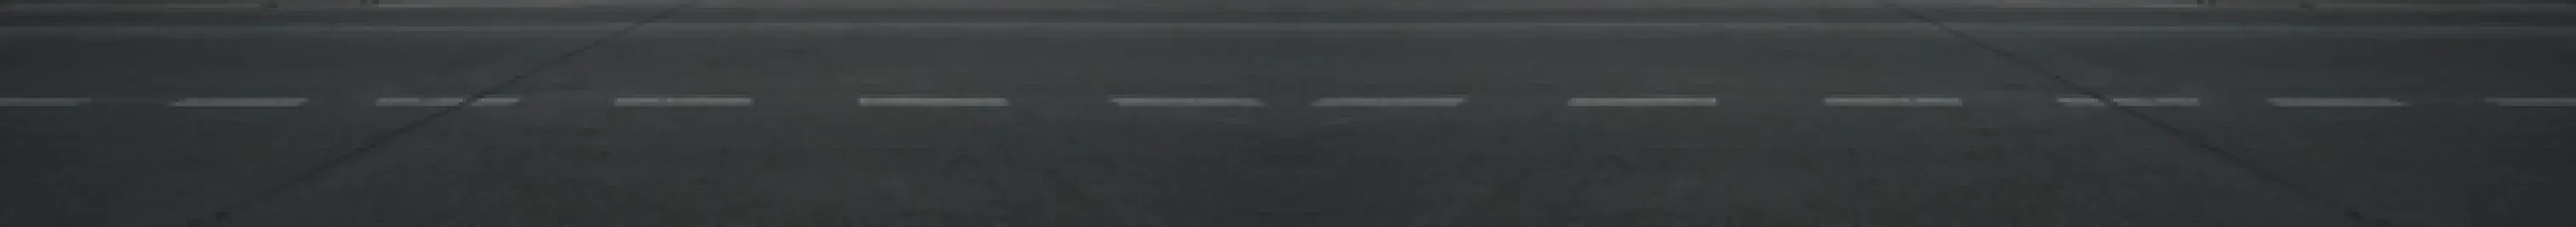
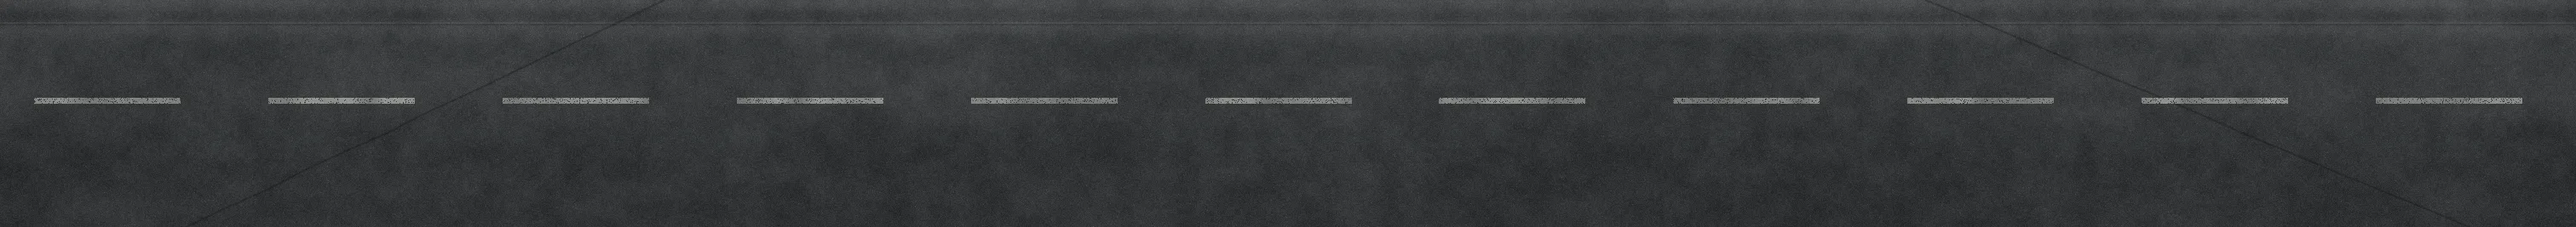
Publish prep · share preview, own city ground
- og:image (1200×630 from the hero), og:url and twitter:card tags with
  absolute URLs for https://sooooham.github.io/future-tense/
- ground-city-tile.webp replaced with an asphalt texture generated in code
  (the old one was a stock preview and can't go public)
- ignore CHANGES-round-3.md, future-tense.zip, HANDOFF-full-spec.md

diff --git a/index.html b/index.html
@@ -9,6 +9,15 @@
 <meta property="og:title" content="Future: Tense">
 <meta property="og:description" content="One year in Paldi, Ahmedabad, 2070. Six crises. Carbon is the currency. What does your receipt say?">
 <meta property="og:type" content="website">
+<meta property="og:url" content="https://sooooham.github.io/future-tense/">
+<meta property="og:image" content="https://sooooham.github.io/future-tense/assets/img/og-image.jpg">
+<meta property="og:image:width" content="1200">
+<meta property="og:image:height" content="630">
+<meta property="og:image:alt" content="Future: Tense title card: a walker on a dusty plain under a green sky, with a carbon wallet reading 100 CCP.">
+<meta name="twitter:card" content="summary_large_image">
+<meta name="twitter:title" content="Future: Tense">
+<meta name="twitter:description" content="One year in Paldi, Ahmedabad, 2070. Six crises. Carbon is the currency. What does your receipt say?">
+<meta name="twitter:image" content="https://sooooham.github.io/future-tense/assets/img/og-image.jpg">
 <link rel="icon" href="assets/svg/favicon.svg" type="image/svg+xml">
 <link rel="preconnect" href="https://fonts.googleapis.com">
 <link rel="preconnect" href="https://fonts.gstatic.com" crossorigin>
